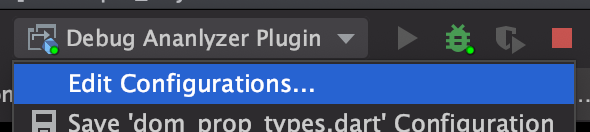
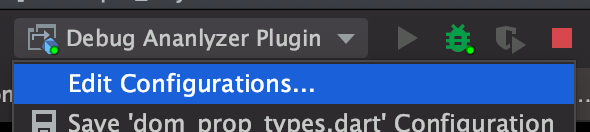
Reduce size of doc images: make pngs indexed, use static image instead of gif

Changed region(s): [[0.7322, 0.1818, 0.7932, 0.3939]]

diff --git a/tools/analyzer_plugin/README.md b/tools/analyzer_plugin/README.md
@@ -110,7 +110,7 @@ Before starting, ensure you have the `analyzer_plugin` open as its own project (
             
 1. Next, we need to open the analyzer diagnostics to find the URL for our debugger. Open the Dart Analysis Server Settings, and click `View analyzer diagnostics`. This will open your browser.
 
-    <img src="doc/open-analyzer-diagnostics.gif" alt="doc/open-analyzer-diagnostics.gif" width="444">
+    <img src="doc/open-analyzer-diagnostics.png" alt="doc/open-analyzer-diagnostics.png" width="365">
 
 1. In the Analysis Server Diagnostics page in your browser, click the `Memory and CPU Usage` tab. Copy the protocol connection URL.
 
